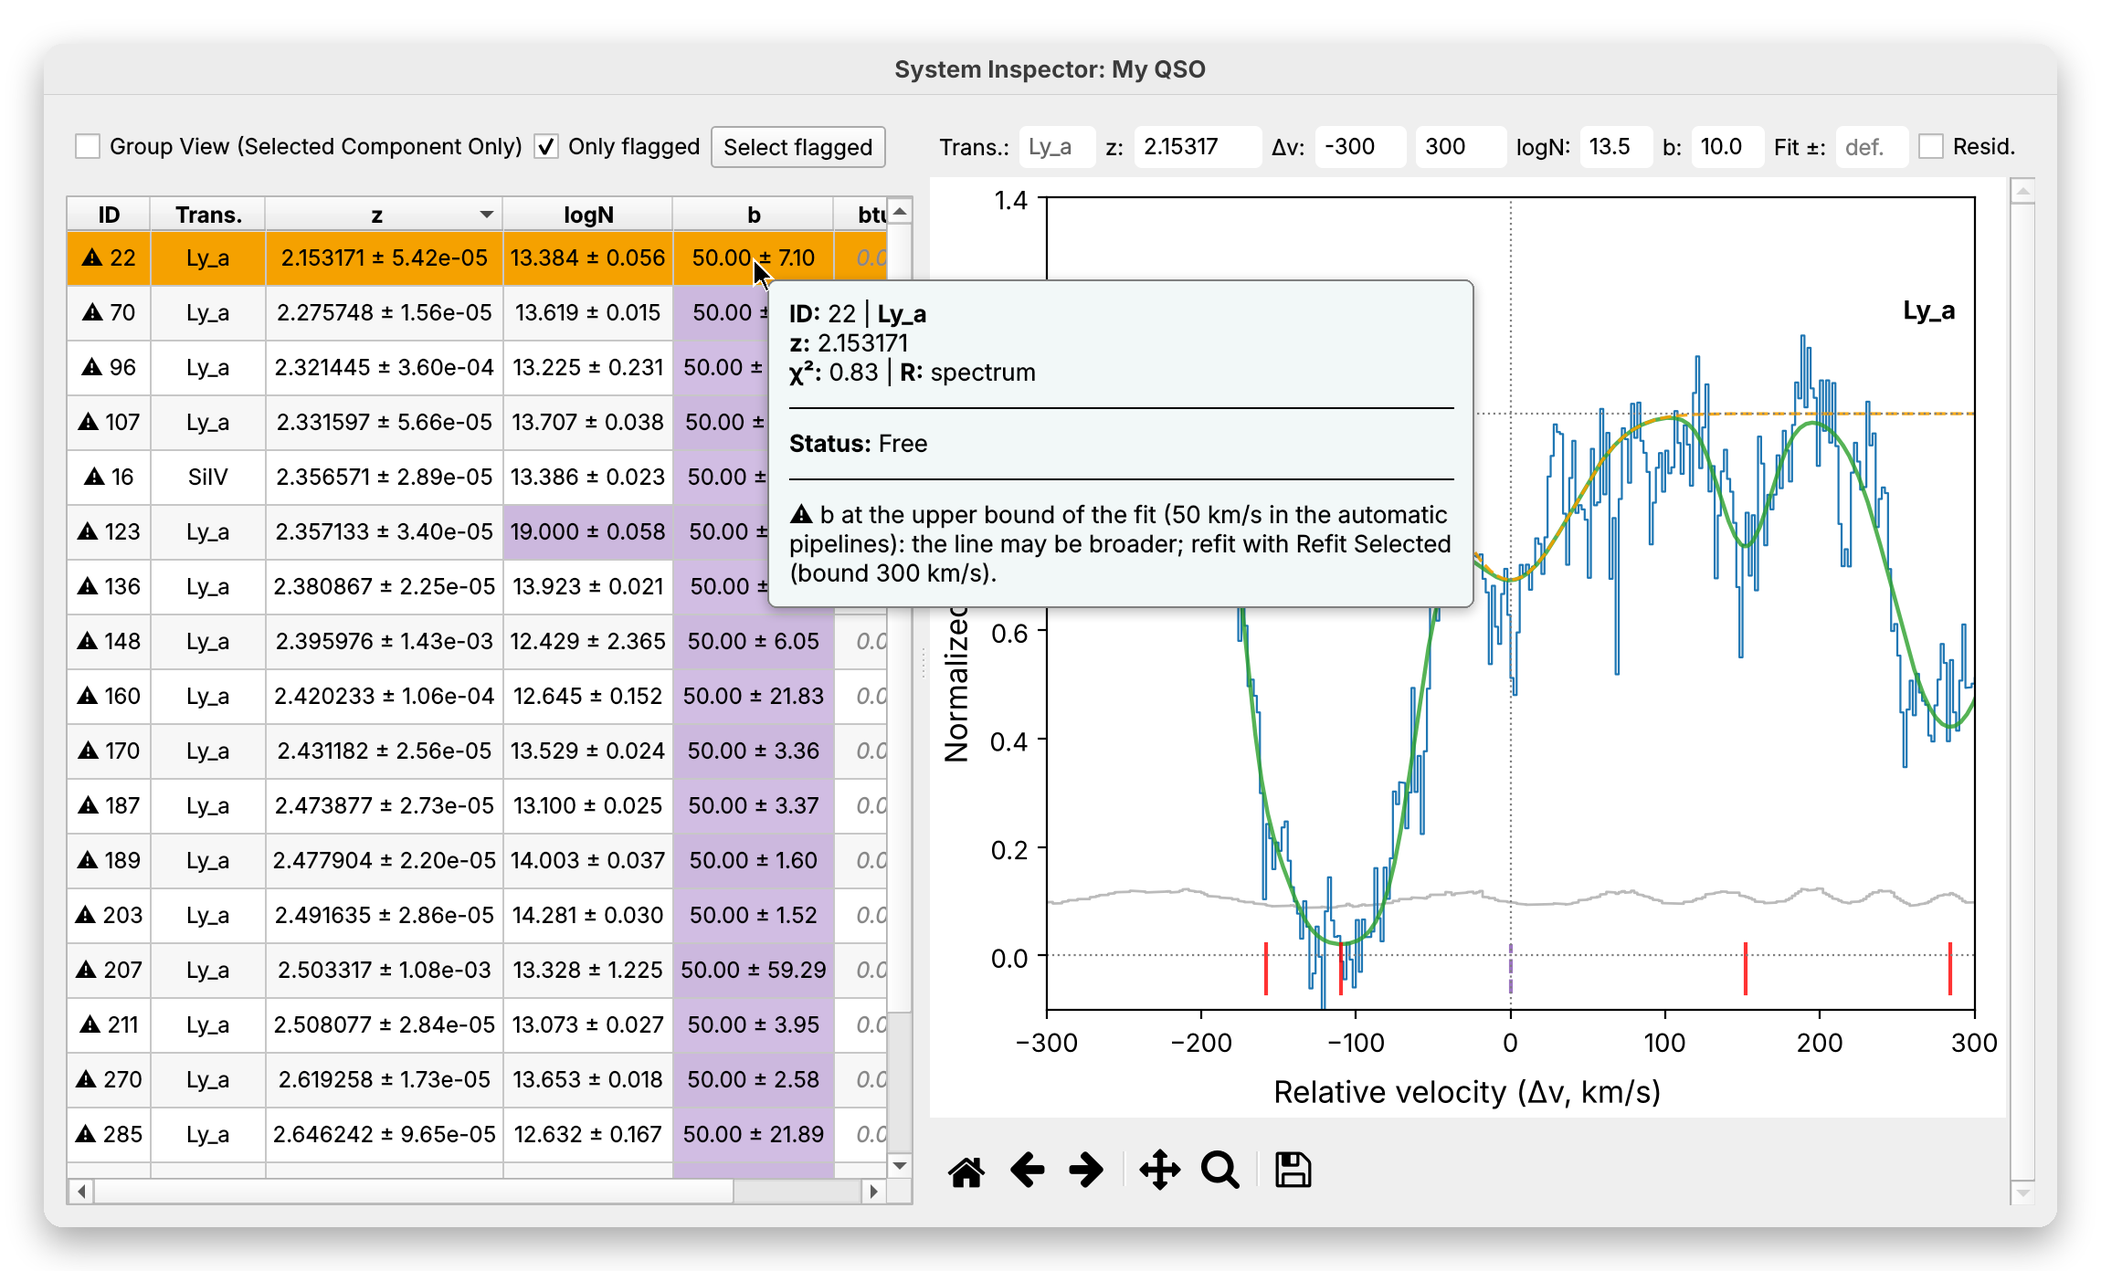
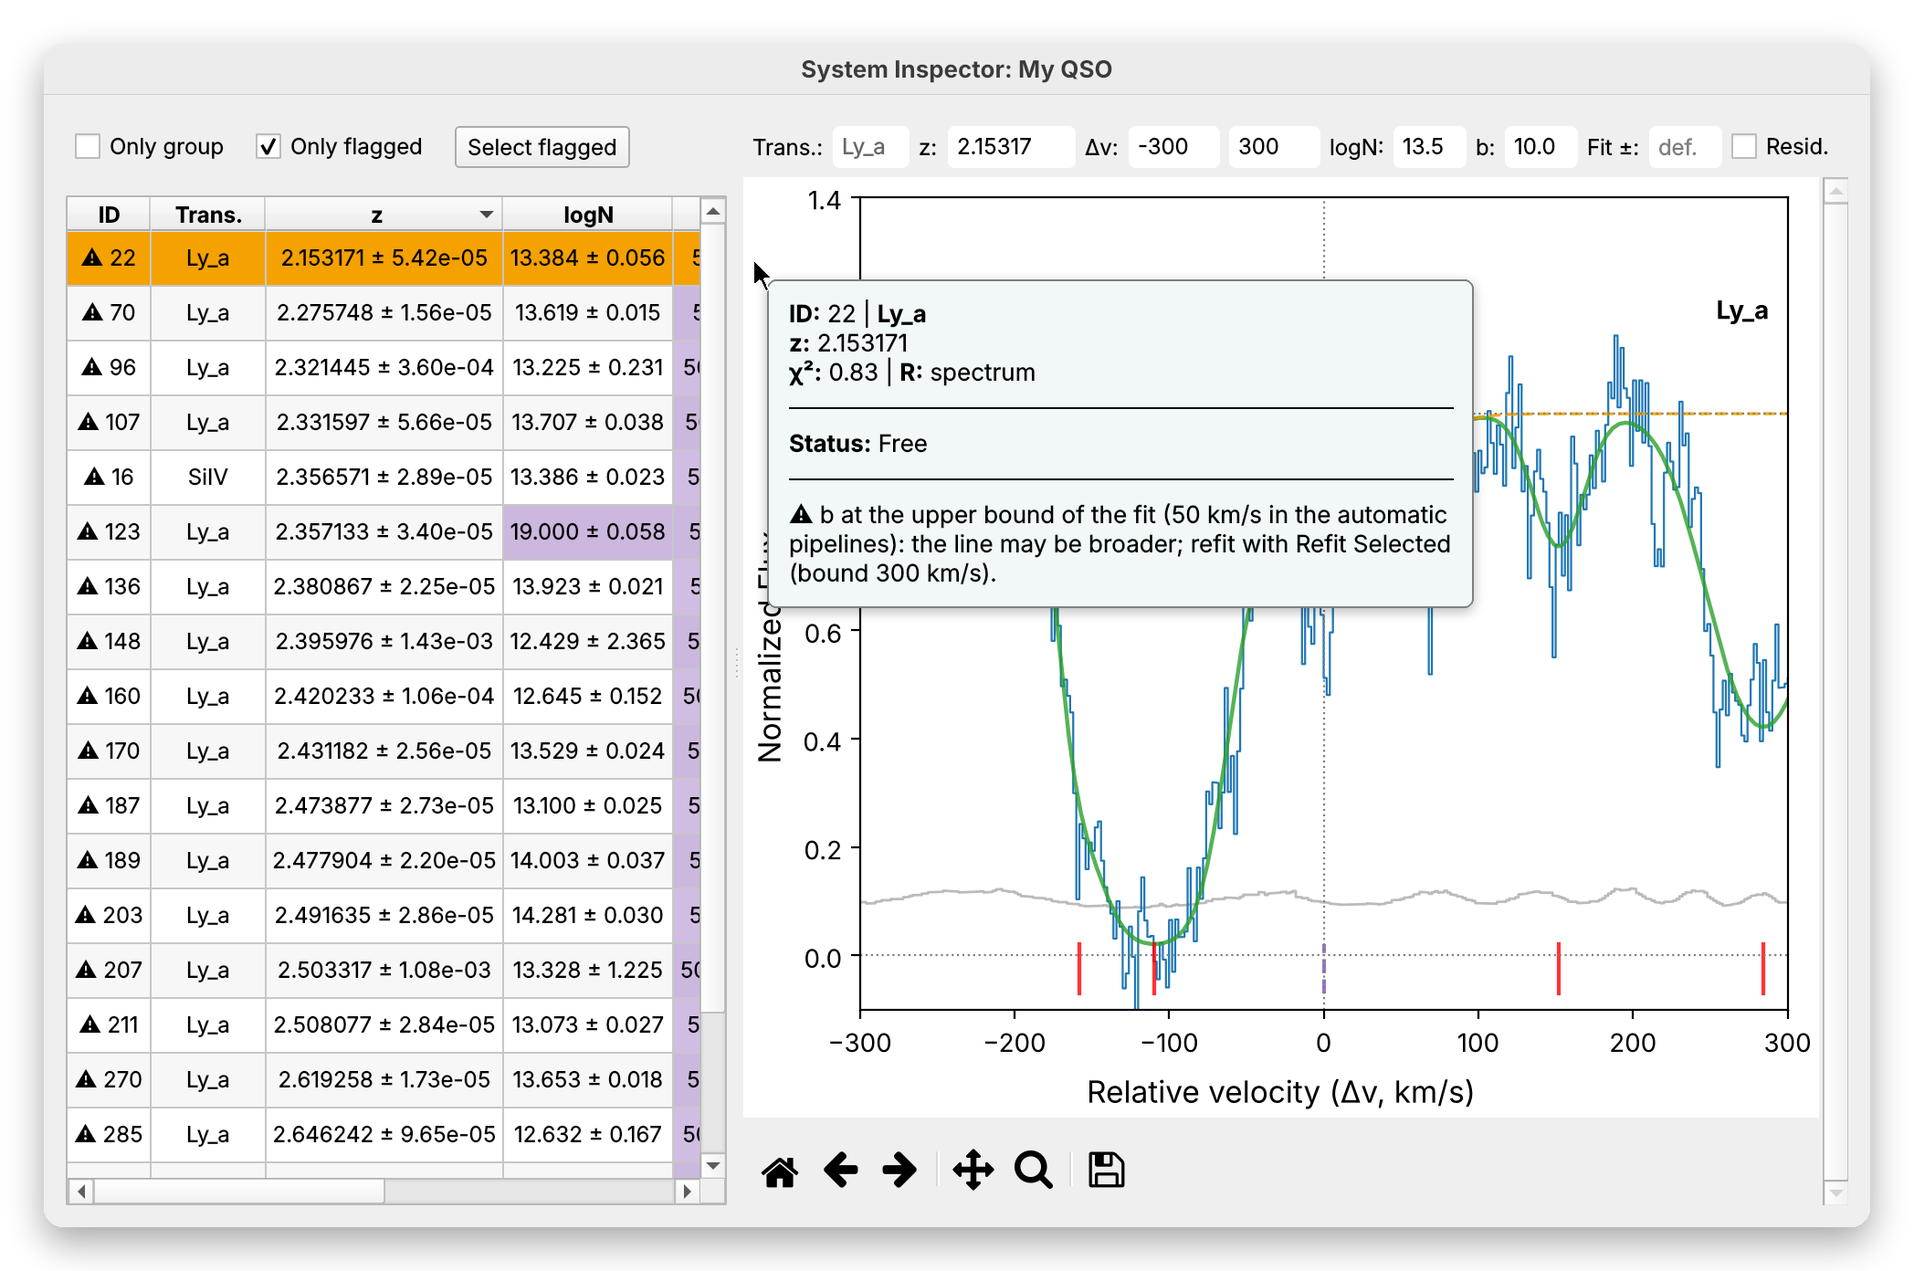
Fix F85: the boxes above the System Inspector table
The row of the boxes had no spacing of its own (a nested layout takes
that of its parent, 0 here), so the boxes touched and overlapped on
macOS. The label 'Group View (Selected Component Only)' did not say what
the box shows: the group of the selection (linked, blended or close in
velocity), the components fitted together. Now 'Only group', with a
tooltip, and 'Inspect ... (its group)' in the context menu of the main
plot; spacing 12 px. Screenshots of the System Inspector rebuilt.

CLAUDE.md: the CI of each PR is checked with a scheduled reminder.

Claude-Session: https://claude.ai/code/session_01N95cbM7xvLMDyKr9XgXJpi

diff --git a/astrocook/gui/system_inspector.py b/astrocook/gui/system_inspector.py
@@ -108,8 +108,13 @@ class SystemInspector(QWidget):
         left_layout.setContentsMargins(0, 0, 0, 0)
         left_layout.setSpacing(0)
         
-        # [Task 2] Create a layout for the checkbox that matches the Right Toolbar's height/margins
-        self.group_cb = QCheckBox("Group View (Selected Component Only)")
+        # Only the group of the selection: the components fitted with it
+        # (get_connected_group). The old label, "Group View (Selected
+        # Component Only)", did not say so (findings register F85)
+        self.group_cb = QCheckBox("Only group")
+        self.group_cb.setToolTip("Show only the group of the selected components: those "
+                                 "linked to them, blended with them or close in velocity, "
+                                 "which are fitted together")
         self.group_cb.toggled.connect(self._on_group_toggled)
         
         # Flags of the fit (#517): show only, or select, the components
@@ -125,6 +130,9 @@ class SystemInspector(QWidget):
 
         l_toolbar = QHBoxLayout()
         l_toolbar.setContentsMargins(5, 5, 15, 15) # Exact match to Right Toolbar
+        # Its own spacing: a nested layout takes that of its parent, 0 here,
+        # and the boxes touched (F85)
+        l_toolbar.setSpacing(12)
         l_toolbar.addWidget(self.group_cb)
         l_toolbar.addWidget(self.flagged_cb)
         l_toolbar.addWidget(self.select_flagged_btn)
@@ -487,7 +495,7 @@ class SystemInspector(QWidget):
         Public API: Selects a component and scrolls to it.
         Args:
         
-        force_group_view: If True, checks 'Group View' at the end (Main Window behavior). If False, restores previous state (Inspector Plot behavior).
+        force_group_view: If True, checks 'Only group' at the end (Main Window behavior). If False, restores previous state (Inspector Plot behavior).
         """
         # 1. Capture previous state
         was_checked = self.group_cb.isChecked()
@@ -519,7 +527,7 @@ class SystemInspector(QWidget):
         self.table_view.selectRow(proxy_idx.row())
         self.table_view.scrollTo(proxy_idx)
         
-        # 6. [FIX] Logic for Group View State
+        # 6. [FIX] Logic for the 'Only group' State
         if force_group_view:
             # Case 1: Main Window -> Always Enforce
             self.group_cb.setChecked(True)

diff --git a/tests/test_gui_smoke.py b/tests/test_gui_smoke.py
@@ -17,7 +17,7 @@ import sys
 from pathlib import Path
 
 import pytest
-from PySide6.QtWidgets import QMessageBox
+from PySide6.QtWidgets import QApplication, QMessageBox
 
 from astrocook.gui.main_window import MainWindowV2
 from astrocook.recipes.absorbers import ABSORBERS_RECIPES_SCHEMAS
@@ -307,6 +307,21 @@ def test_inspector_columns_fit_their_contents(qtbot, loaded):
     inspector.group_cb.setChecked(False)
     qtbot.waitUntil(lambda: _columns_fit_their_contents(inspector)
                     and header.sectionSize(1) == wide)
+
+
+def test_inspector_boxes_above_the_table(loaded):
+    """The boxes above the table do not touch, and the group box says what
+    it shows (findings register F85: no spacing in their row, and the
+    label "Group View (Selected Component Only)")."""
+    loaded._on_view_system_inspector()
+    inspector = loaded.system_inspector
+    inspector.resize(1000, 700)
+    QApplication.processEvents()
+    group, flagged, button = (inspector.group_cb, inspector.flagged_cb,
+                              inspector.select_flagged_btn)
+    assert group.text() == "Only group" and "fitted together" in group.toolTip()
+    assert group.geometry().right() + 10 < flagged.geometry().left()
+    assert flagged.geometry().right() + 10 < button.geometry().left()
 
 
 def test_inspector_fit_window(loaded, monkeypatch):

diff --git a/astrocook/gui/velocity_plot.py b/astrocook/gui/velocity_plot.py
@@ -695,7 +695,7 @@ class VelocityPlotWidget(QWidget):
         """
         Handles mouse clicks on the velocity plot.
         Right-Click (Button 3):
-        1. If clicked on a Tick -> Focus on that component (Group View).
+        1. If clicked on a Tick -> Focus on that component (Only group).
         2. If clicked on Background -> Add new component.
         """
         if not event.inaxes: return
@@ -728,7 +728,7 @@ class VelocityPlotWidget(QWidget):
                         break
 
             if found_comp:
-                # "Focus" triggers the Group View logic in the Inspector
+                # "Focus" triggers the Only group logic in the Inspector
                 act_focus = QAction(f"Focus on Component {found_comp.id}", menu)
                 act_focus.triggered.connect(
                     lambda: self.inspector.focus_on_component(found_comp.uuid, force_group_view=False)

diff --git a/tests/test_main_plot_mouse.py b/tests/test_main_plot_mouse.py
@@ -255,7 +255,7 @@ def test_right_click_on_a_component(window, menus, modifiers, monkeypatch):
     texts = list(menus[-1])
     spec = _spec(window)
     idx = int(np.clip(np.searchsorted(spec.x.value, x), 0, len(spec.x.value) - 1))
-    assert texts == [f"Inspect {comp.series} (Group View)", "Split from Current Zoom",
+    assert texts == [f"Inspect {comp.series} (its group)", "Split from Current Zoom",
                      f"Inspect Data (near {spec.x.value[idx]:.4f} nm)"]
     menus[-1][texts[0]].trigger()
     assert opened == [comp.uuid]

diff --git a/astrocook/gui/plot_mouse.py b/astrocook/gui/plot_mouse.py
@@ -517,7 +517,7 @@ class PlotMouseMixin:
             
             # --- Menu Items ---
             if found_comp:
-                act_inspect = QAction(f"Inspect {found_comp.series} (Group View)", menu)
+                act_inspect = QAction(f"Inspect {found_comp.series} (its group)", menu)
                 if self.main_window: act_inspect.triggered.connect(lambda checked=False, u=found_comp.uuid: self.main_window.open_inspector_on_component(u))
                 menu.addAction(act_inspect)
                 menu.addSeparator()

diff --git a/ROADMAP.md b/ROADMAP.md
@@ -1316,7 +1316,7 @@ added to the panel (to be discussed). One PR at a time:
 4. #630 (errors of linked parameters in the ASCII list);
 5. F81 + F75 (zoom after a recipe dialog, SNR view);
 6. F78 ("Logarithmic F" in the panel);
-6-bis. the System Inspector: the boxes above the table touch (no spacing in their row) and "Group View (Selected Component Only)" does not say what it shows (the group of the selection: linked and blended components); "Only group" with a tooltip, explicit spacing (agreed with Guido);
+6-bis. F85, the System Inspector: the boxes above the table touch (no spacing in their row) and "Group View (Selected Component Only)" does not say what it shows (the group of the selection: linked and blended components); "Only group" with a tooltip, explicit spacing (agreed with Guido);
 7. F77 + F80 (dead code);
 8. F73 (selection of a region restored);
 9. F76 (decimation of long spectra redone);
@@ -1574,6 +1574,7 @@ Exception: anything that loses user data or crashes is reported at once.
 | F82 | export of ASCII files | The export decides whether a spectrum file is written (for the suggested name and the check of existing files) from the internal names of the columns (x, y, dy, cont, ...), while the export itself also takes the names shown in the GUI (λ, F, dF): with targets named only as in the GUI (e.g. "F, dF", or the default "F, cont, systems" on a session without continuum) the spectrum file is not expected, the suggested name is the bare prefix and an existing `<prefix>_spec.csv` is overwritten without asking. **Loses user data** (a file on disk). Found in phase 5 while writing the characterization tests of the recipes | data loss | `test_export_with_the_names_of_the_gui`, `test_export_ascii_outputs` | fixed in phase 5 (agreed with Guido): the recipe tells which files it writes (`RecipeFileV2.export_ascii_outputs`, the same rule as `export_ascii`) and the GUI asks it; the target `spec` (all the columns of the spectrum, as documented) wrote nothing and now writes the spectrum file. Not #630 (errors of linked parameters in the exported systems, phase 5-bis) |
 | F83 | export of ASCII files | When the files to export already exist, the question before overwriting raises `UnboundLocalError`: `_on_recipe_requested` imports `QMessageBox` again further down (`from PySide6.QtWidgets import QMessageBox, QApplication`, in the checks of `set_properties` and `coadd`), so the name is local to the whole method and not yet bound in the export branch. Nothing is written and no message is shown (the error goes to the console). Found in phase 5 while writing the characterization tests of the recipes | crash | `test_export_over_existing_files` | fixed in phase 5 (agreed with Guido): the two local imports removed (the names are imported by the module) |
 | F84 | x axis in velocity | The spectrum does not keep the reference redshift of a conversion of the x axis to velocity (`x_convert`; only the history line "X-axis converted to km/s at z_ref=..." records it): every conversion back to wavelength (rebin, smooth, continuum, combination of spectra, the ticks of the systems since F66) uses z_em, so they are wrong if the axis was converted with another z_ref, or if z_em changed after the conversion. Found in phase 5 while fixing F66 | design | — | open (phase 6-bis or 7: keep z_ref with the spectrum) |
+| F85 | System Inspector (boxes above the table) | The row of the boxes above the table ("Group View (Selected Component Only)", "Only flagged", "Select flagged") had no spacing of its own: a nested layout takes that of its parent, 0 here, so the boxes touched, and overlapped on macOS (reported by Guido). The label said "Selected Component Only", the tutorial "the components physically linked to your selection": the box shows the group of the selection (`get_connected_group`: linked, blended or close in velocity), the components fitted together. Reported by Guido in phase 5-bis | GUI | `test_inspector_boxes_above_the_table` | fixed in phase 5-bis (PR 6-bis, agreed with Guido): "Only group" with a tooltip, "Inspect ... (its group)" in the context menu of the main plot, spacing 12 px |
 
 ### 3.3 Phase 1-bis: findings and urgent issues
 Review of the findings register with Guido (October 2026): the proposals
@@ -2002,7 +2003,7 @@ review); each of its decisions goes into the log.
 | MCP pilot (sections 4.1, 4.2) | done (October 2026): scope (#595); skeleton with `session_open`, `session_save` (#596); `continuum_estimate_auto`, `absorbers_identify_lines` (#597); `absorbers_doublets_auto` (#598); docs page and stdio test (#599); report (section 4.2, #600): two agent trials and Guido's; found F46-F55 |
 | 4 – Scientific correctness (validation on mocks; #526, #517, #465, #518, #568, #573) | done (October 2026): plan agreed (#601); validation: mocks extended (#602), benchmark (#603), baseline (#604); found F56-F59; #573 done (#605: one default per parameter); #518 done (#606: fit window in the System Inspector); #568: wrong atomic values (#607), AlII, [NeIII], [NeV], TiII (#608), single table with sources and newer values, F39 (#609); F49: one candidate per doublet (#611); F55: candidates within 3000 km/s of z_em (#612); F50: the pipelines keep the mask of the user (#613); #465: robust automatic continuum (spikes, masked running mean, local S/N) (#614); #526 PR 1: resolution as a single column (#615); PR 2: the GUI on the same resolver (#616); PR 3: exact convolution with the LSF of each pixel (#617); F61: damping parameter (1 + z) too large (#619); F62: `max_logN` = 19 in the automatic pipelines (#624); PR 4: legacy sources no longer written, System Inspector profiles as the fitter (#625); #623: refit of sessions with pixel edges without a unit (regression of #617, #626); F14: blend threshold of the grouping from the instrumental FWHM (#618); #517 with F52 partly: flags of the fit (#627), cleanup of the pipelines (#628), GUI cues and F65 (#629); F63 (#631); result against the baseline in "Result of the phase" |
 | 5 – Splitting large files (and GUI performance) | done (October 2026): order of the phase agreed, F12 moved to 6-bis; GUI benchmark (`benchmarks/bench_gui.py`, #634); inspector table (first opening 3.7 → 1.3 s, #635); ticks of the main plot (redraw 0.19 → 0.13 s, #636), found F66; draws of the velocity plot coalesced (first opening 1.43 → 1.19 s, #637); Qt enums of the table read once (first opening 1.22 → 0.54 s; from 3.96 s before the phase, #638); highlights of the main plot blitted (selection of a row 0.32 → 0.22 s, #639); split of `SpectrumV2`: continuum (#640), found F67; lines (#641), found F68; calibration fixed (`np.trapz` removed from NumPy, #642), found F69, F70; flux (#643); combination (#644), found F71, F72; expressions and masks: split of `SpectrumV2` complete (2826 → 774 lines, #645); tests in parallel (#646); split of the GUI: F7 fixed (#647); inspector table (#648); velocity plot (#649); its rebuild and layout faster (selection 0.23 → 0.18 s, #650); parts of the main plot in their modules, found F73 (#651); continuum editor in a mixin, found F74 (#652); mouse handlers and tooltip in a mixin (#653); `plot_spectrum` split into its parts, found F75, F76 (#654); split of `main_window.py`: accessory widgets and dialogs (#655), menus, found F77 (#656); panels, found F78 (#657); controls of the continuum editor, F74 fixed (#658); sessions, found F79 (#659); recipes and scripts, found F80-F83: split of `main_window.py` complete (4831 → 541 lines) (#660); F82, F83 fixed (#661); F66 fixed, found F84 (#662); closing: documentation of the API (the methods of `SpectrumV2` back on its page), result of the phase (System Inspector opened ~7× faster, selection ~3×; `spectrum.py` 2826 → 774 lines, `main_window.py` 4831 → 541; coverage 67% → 81%) |
-| 5-bis – GUI look and ergonomics | in progress (October 2026): order of the phase agreed (all the findings proposed, F73, F76, F77, F80 included); F67, F71 fixed (PR 1, #664); F69 (PR 2, #665); F70 (PR 3, #666); #630 (PR 4, #667); F81, F75 (PR 5, #668); F78 (PR 6) |
+| 5-bis – GUI look and ergonomics | in progress (October 2026): order of the phase agreed (all the findings proposed, F73, F76, F77, F80 included); F67, F71 fixed (PR 1, #664); F69 (PR 2, #665); F70 (PR 3, #666); #630 (PR 4, #667); F81, F75 (PR 5, #668); F78 (PR 6, #669); F85, the boxes of the System Inspector (PR 6-bis) |
 | 6 – Error handling | not started |
 | 6-bis – Recipe API | not started |
 | 7 – Robust components | not started |

diff --git a/CHANGELOG.md b/CHANGELOG.md
@@ -10,6 +10,7 @@
 - GUI: on a wavelength axis converted to velocity (`x_convert`, from a script), the ticks of the absorption systems were drawn relative to z = 0 instead of the emission redshift, so they fell outside the plot (F66). They now use the emission redshift, as the conversion of the axis by default.
 - GUI: saving a continuum edited by hand could log "Failed to save continuum" and leave the plot not redrawn, although the continuum was saved (F74).
 - Importing the GUI from a script that had already imported `matplotlib.pyplot` without a window failed (F7).
+- System Inspector: the boxes above the table touched (overlapped on macOS), and "Group View (Selected Component Only)" did not say what it shows (F85). It is now **Only group**, with a tooltip: the group of the selected components, i.e. those linked to them, blended with them or close in velocity, which are fitted together. The entry of the context menu of the main plot is now *Inspect ... (its group)*.
 - GUI: the **Logarithmic F** box of *View Controls* was not in the panel, so the flux could not be shown on a logarithmic scale (F78). It is now below **Logarithmic λ**. In the normalized view the axis starts from 0.01; a non-positive **F Min** is not applied while the scale is logarithmic.
 - GUI: after any recipe dialog (and after running a script) the main plot was left in zoom mode, even if no tool was on before (F81). The dialogs now switch off only the tool that is on.
 - GUI: in the SNR view with the default error column (dF), each plot logged "Could not get SNR error column 'dF'" and recomputed the arrays, and the other selected sessions were drawn in flux instead of S/N (F75). Fixed; the values of the active session were already right.

diff --git a/docs/tutorials/absorption_systems.md b/docs/tutorials/absorption_systems.md
@@ -77,7 +77,7 @@ This table lists every component in the model.
 * **Sort:** Click any column header to sort the list (e.g., by Redshift or Series).
 * **Tooltips:** Hover over a row to see detailed fit statistics ($\chi^2$) and constraints status.
 * **Resolution:** Right-click a component to set a specific **Resolution ($R$)** for that line, overriding the global session default.
-* **Group View:** Check the box above the table to hide unrelated systems and show only the components physically linked to your selection.
+* **Only group:** Check the box above the table to show only the group of the selected components: the components linked to them, blended with them or close in velocity, which are fitted together with them. Right-clicking a component in the main plot and choosing **Inspect ... (its group)** (e.g. *Inspect CIV (its group)*) opens the inspector this way.
 
 #### Understanding Resolution Priority
 Astrocook handles instrumental resolution ($R$) flexibly to support both constant-resolution survey spectra and variable-resolution echelle data. The resolution of a spectrum lives in its `resol` column (visible in the Data Inspector): resolving power $R$ if dimensionless, FWHM if in km/s. The Voigt fitting engine and the velocity plots use it according to this hierarchy:

diff --git a/CLAUDE.md b/CLAUDE.md
@@ -11,6 +11,9 @@ Italian.
 
 ## Working with Guido
 - Do not subscribe to PR activity (no automatic watching of the PRs).
+- After opening a PR, check its CI with a scheduled reminder (not by
+  subscribing to the PR activity) and tell Guido the result as soon as
+  the tests finish.
 - Short progress messages during the work are fine; at the end of each
   task, a discursive summary of what was done, why, what was found and
   what is left (not just a terse list). Do not wait for long test runs to
